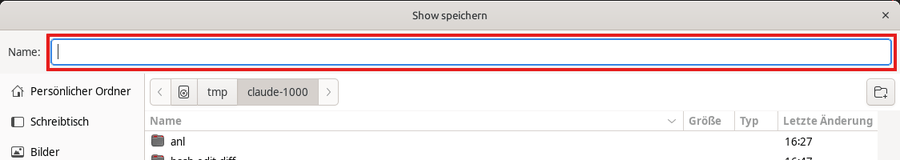
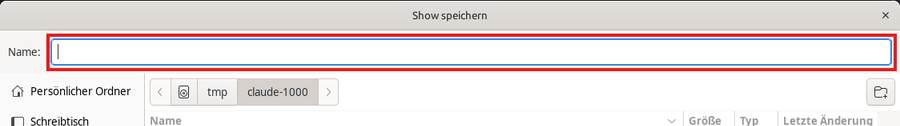
fix(anleitungen): Nachbesserung DOC-80 nach Pruefung
- Playback, Anleitung 1 Schritt 4: dim-Form nicht mehr als Umgehung
  ("Ohne @-Taste") beschrieben, sondern als die im Bild gezeigte Form.
- Show-Dateien: Dateiliste des Temp-Ordners aus dem Bild zum Namensfeld
  geschnitten (zeigte interne Arbeitsordner).

diff --git a/docs/anleitung_playback_schritte/ANLEITUNG.md b/docs/anleitung_playback_schritte/ANLEITUNG.md
@@ -24,8 +24,8 @@
 3. Die neue, leere Liste ist jetzt oben ausgewählt.
    ![Leere Liste](img/a1_03_liste.png)
 4. Stell das Licht ein. Am schnellsten geht das über die Befehlszeile unten. Tippe z. B.
-   `1 thru 5 @ 80` und drück Enter. Das setzt Gerät 1 bis 5 auf 80 %. Ohne @-Taste geht auch
-   `1 thru 5 dim 204` (Rohwert 0–255).
+   `1 thru 5 @ 80` (Gerät 1 bis 5 auf 80 %) oder wie im Bild `1 thru 5 dim 204` (Rohwert
+   0–255) und drück Enter.
    ![Befehl tippen](img/a1_04_befehl.png)
 5. Oben erscheint **Programmer 5**. So siehst du, dass Werte gesetzt sind.
    ![Programmer 5](img/a1_05_programmer.png)
